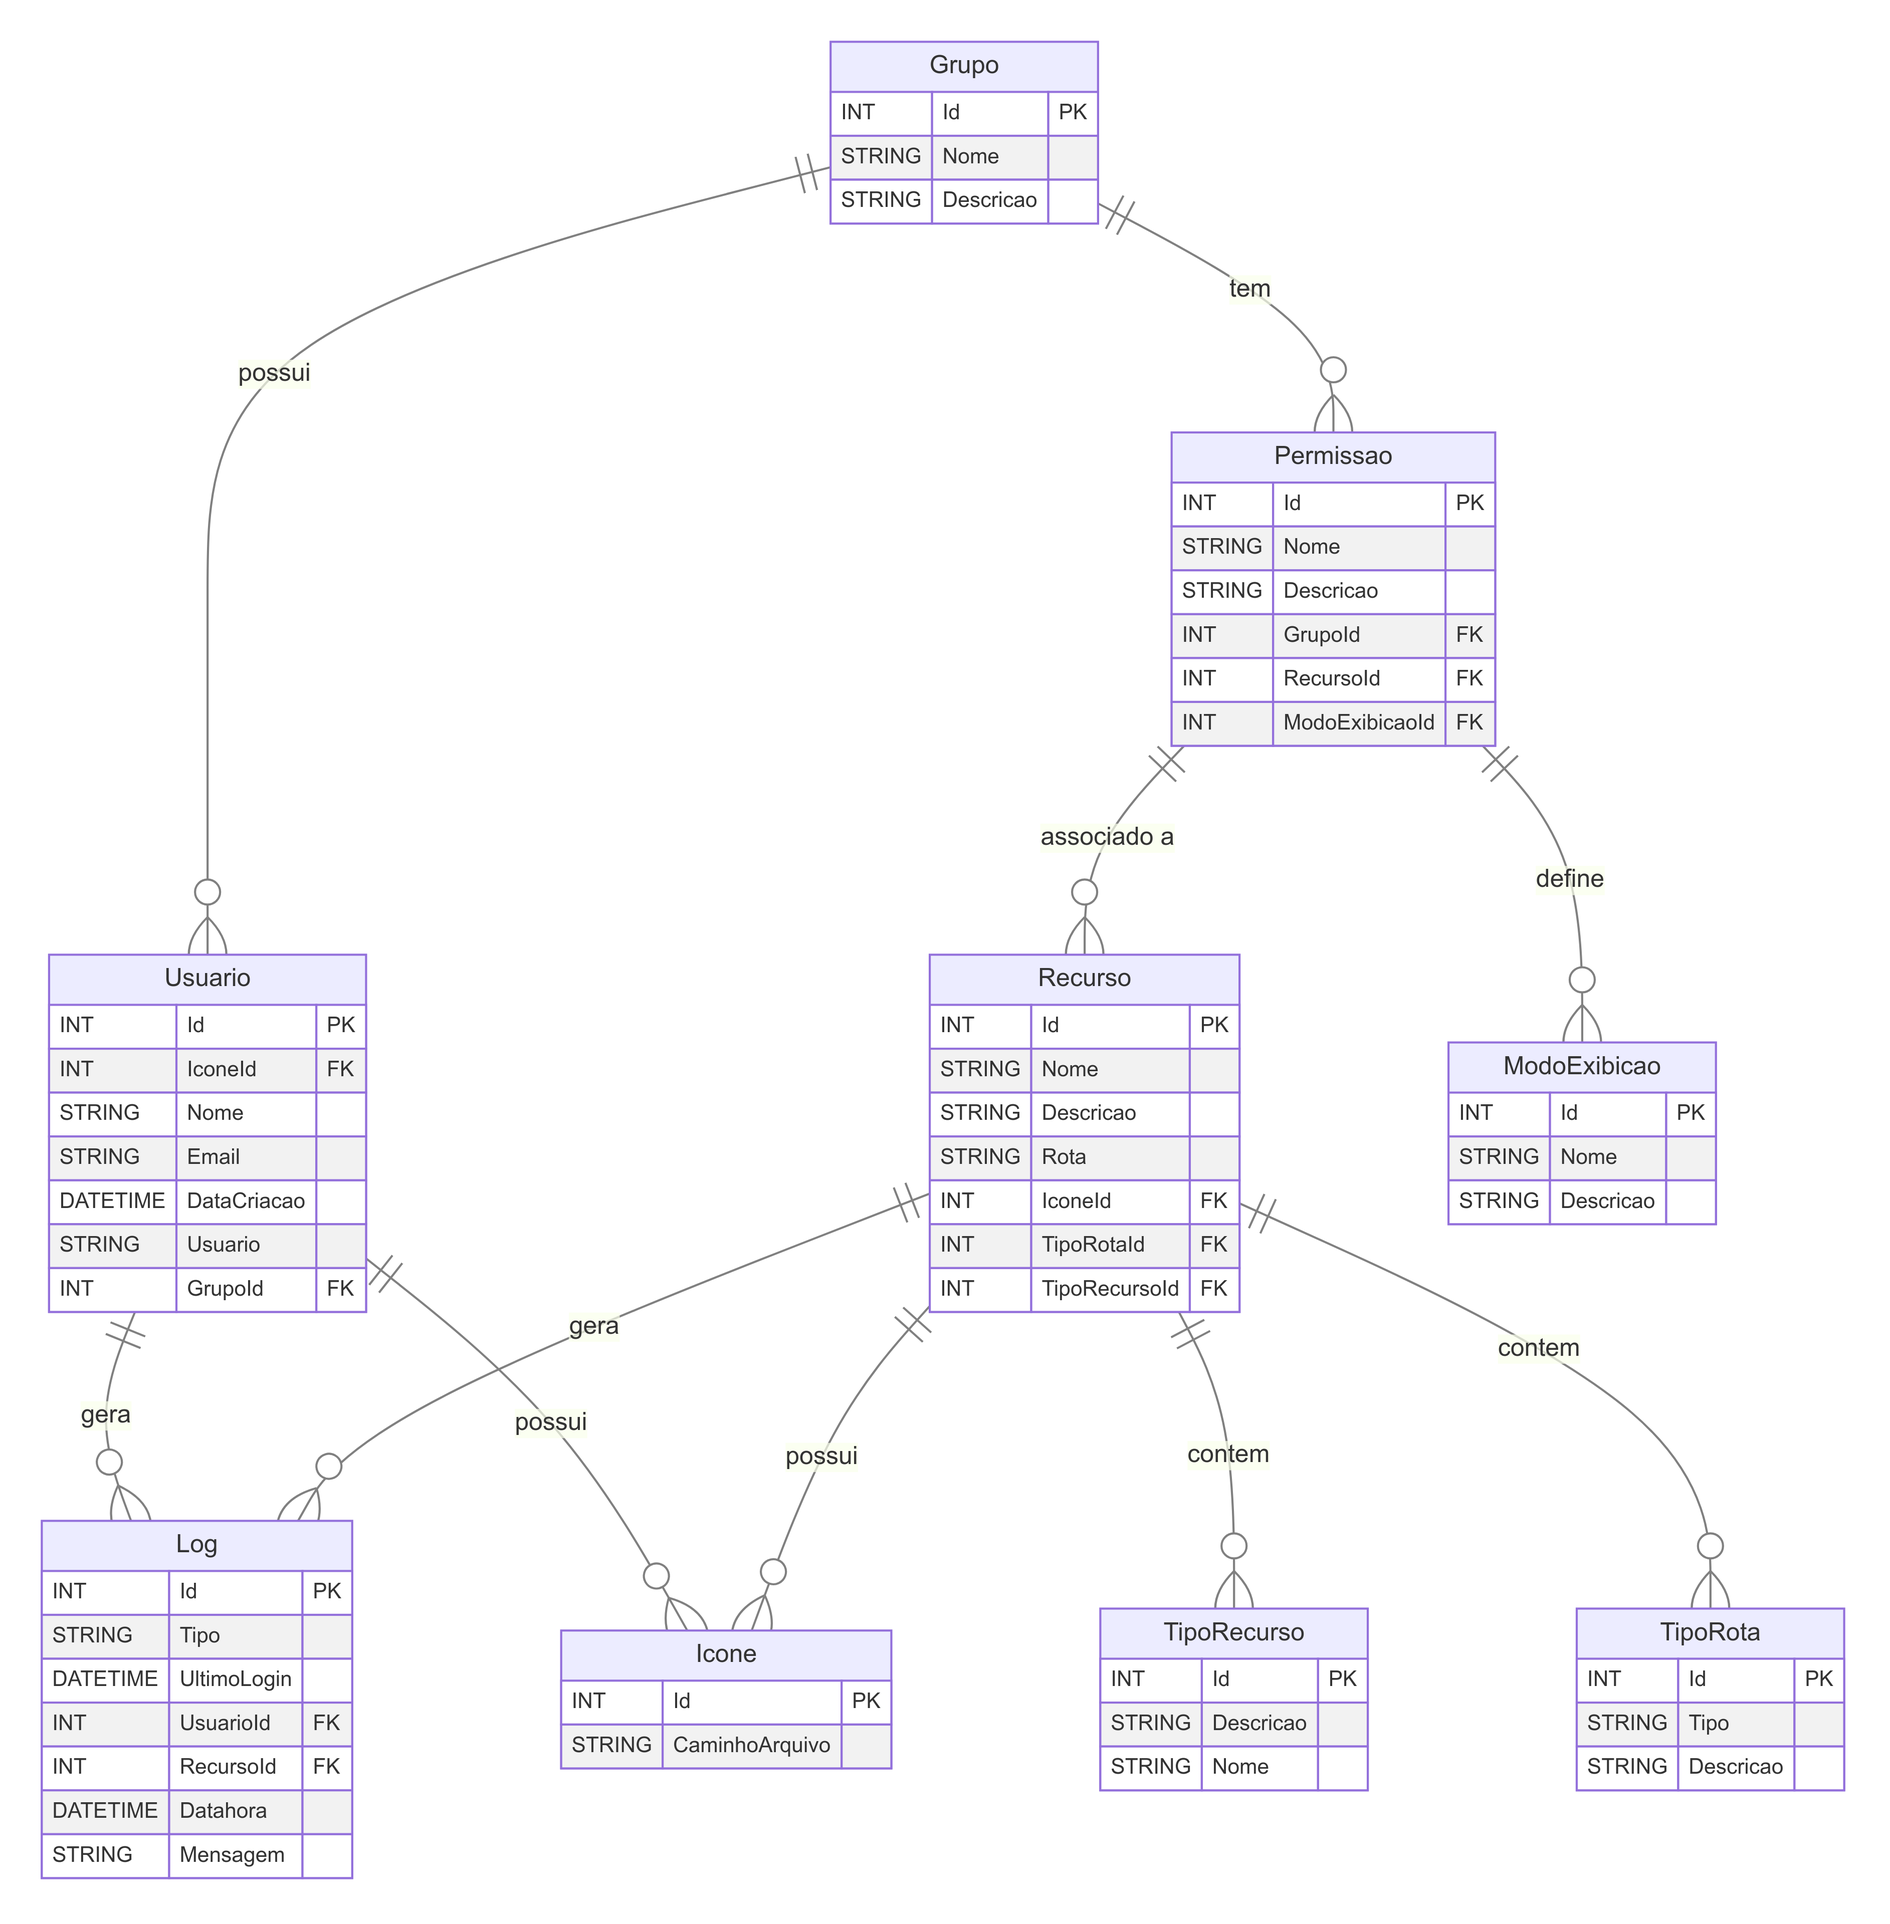
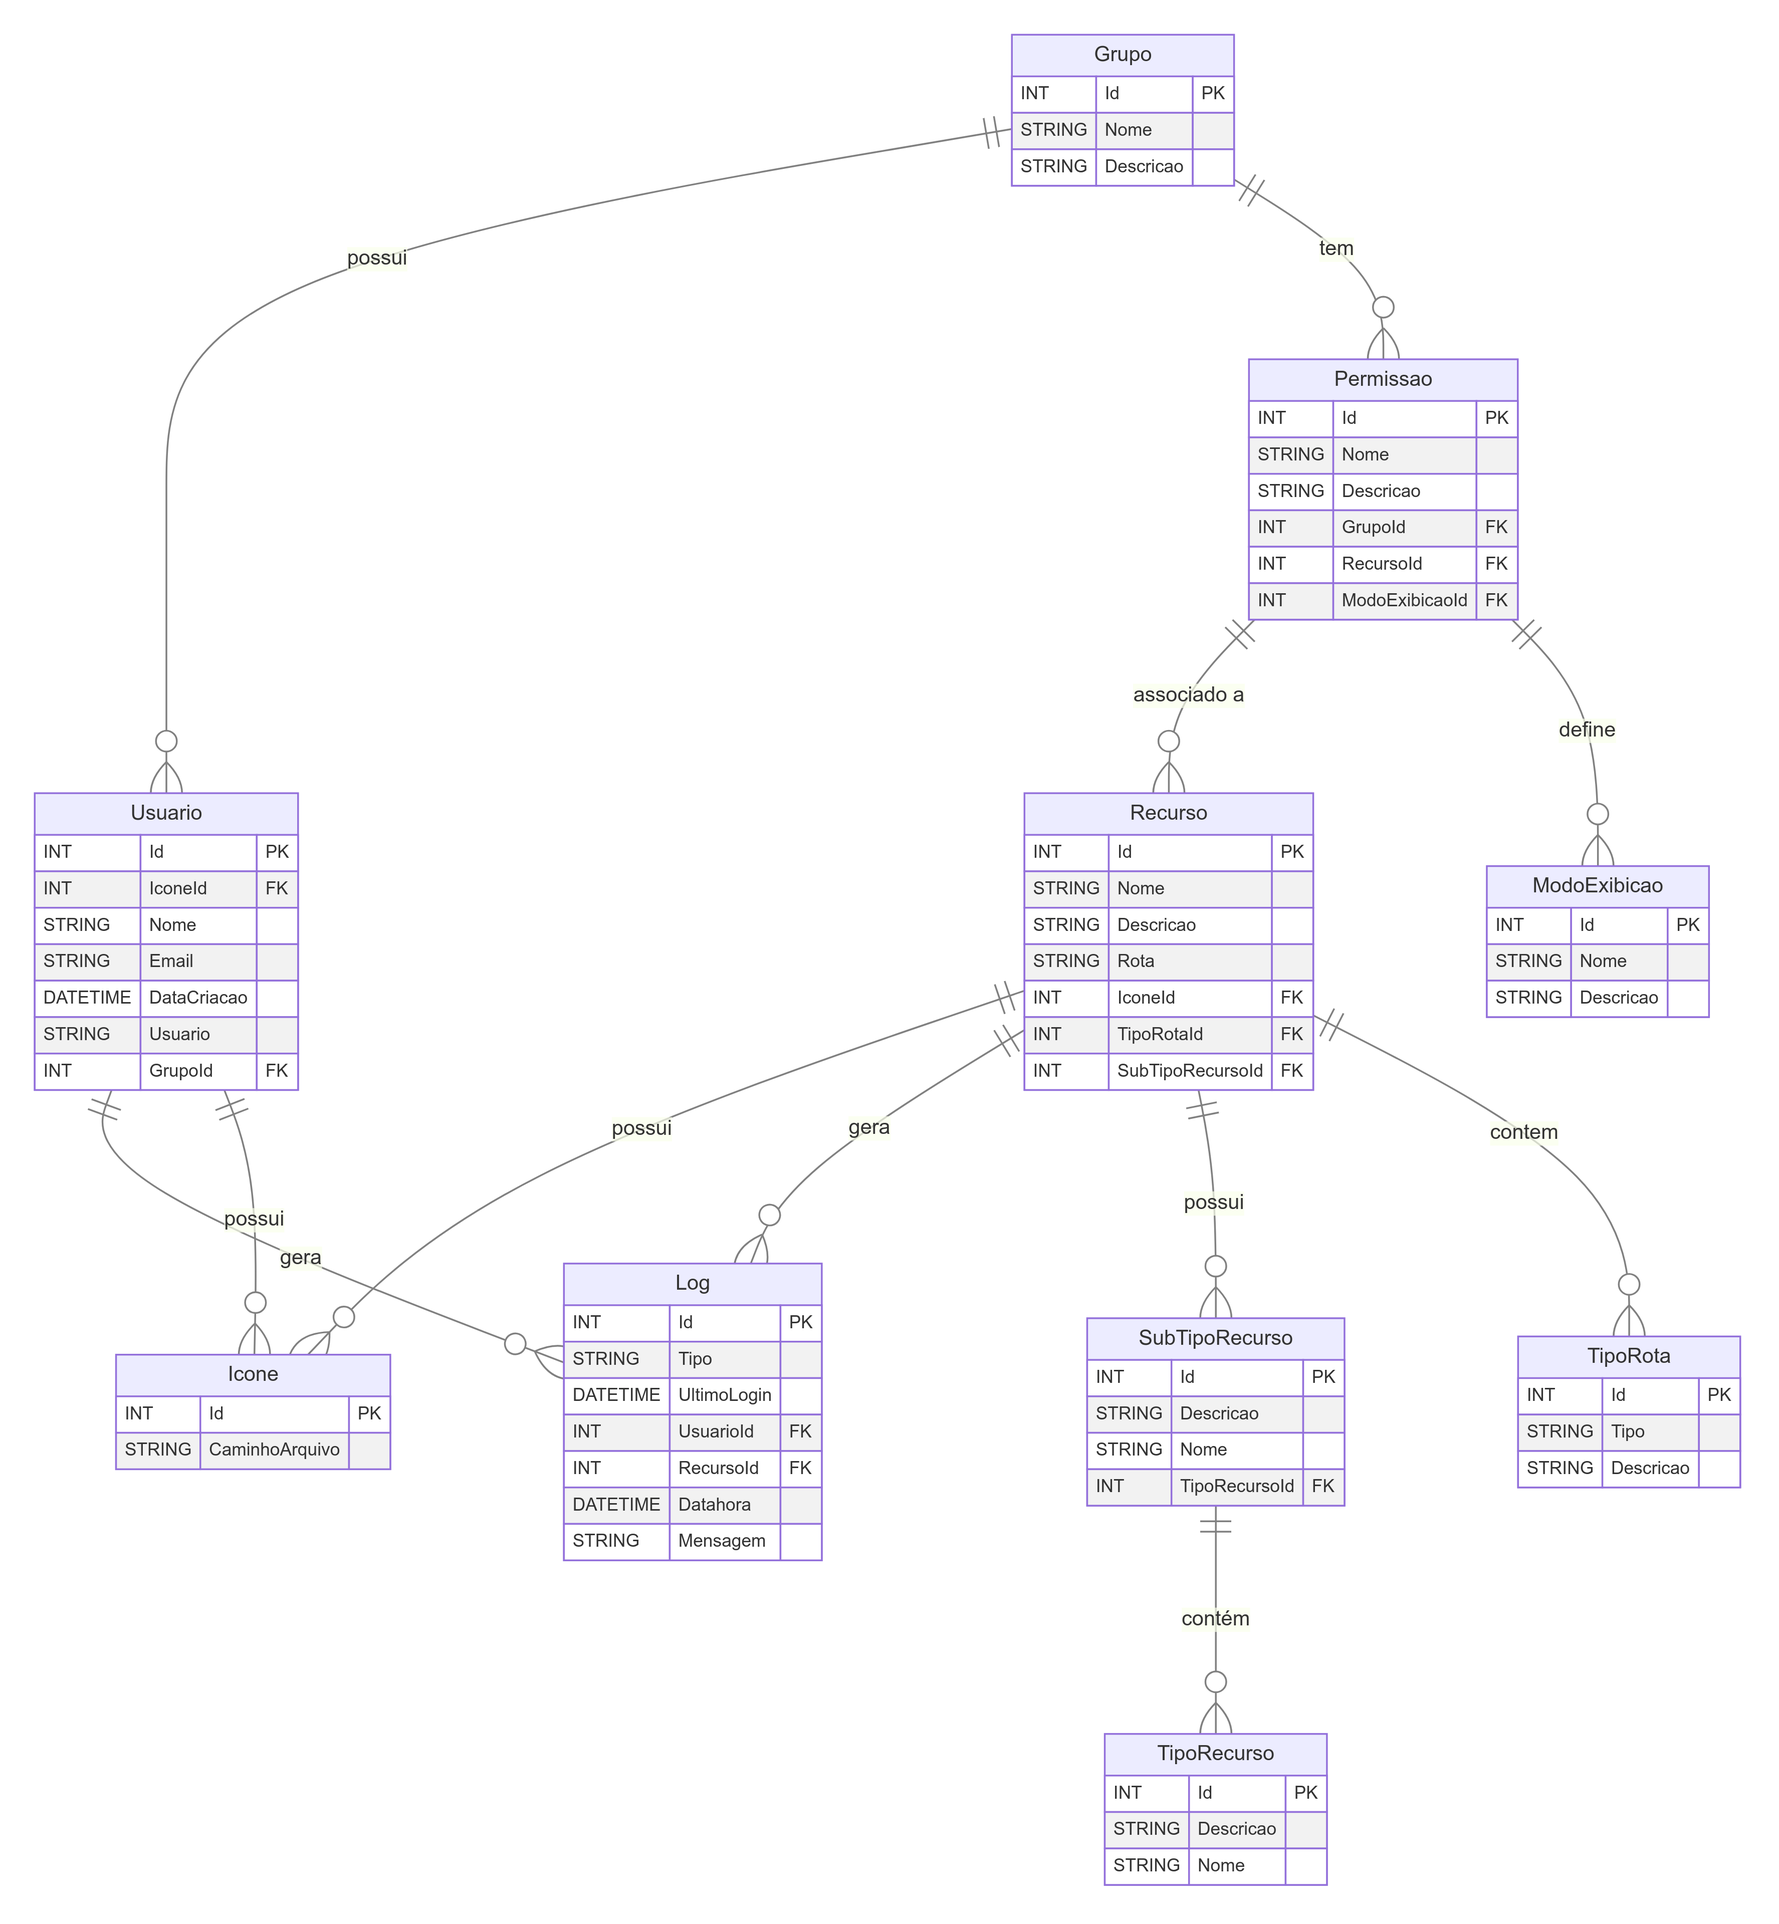
Atualizando a documentação do banco

diff --git a/README.md b/README.md
@@ -33,14 +33,20 @@
    - **Rota**: Caminho do recurso na rede.
    - **TipoRotaId**: Chave estrangeira para a tabela `Tipo Rota`
    - **IconeId**: Chave estrangeira para a tabela `Icone`.
+   - **SubTipoRecursoId**: Chave estrangeira para a tabela `SubTipoRecurso`.
+
+5. **SubTipoRecurso**
+   - **Id**: Identificador único.
+   - **Nome**: Nome do tipo de recurso.
+   - **Descricao**: Descrição do tipo de recurso.
    - **TipoRecursoId**: Chave estrangeira para a tabela `TipoRecurso`.
 
-5. **TipoRecurso**
+6. **TipoRecurso**
    - **Id**: Identificador único.
    - **Descricao**: Descrição do tipo de recurso.
    - **Nome**: Nome do tipo de recurso.
 
-6. **Log**
+7. **Log**
    - **Id**: Identificador único.
    - **Tipo**: Tipo do log.
    - **UltimoLogin**: Data e hora do último login.
@@ -49,7 +55,7 @@
    - **Datahora**: Data e hora do log.
    - **Mensagem**: Mensagem do log.
 
-7. **Permissao**
+8. **Permissao**
    - **Id**: Identificador único.
    - **Nome**: Nome da permissão. Pode representar um tipo ou nome descritivo.
    - **Descricao**: Descrição da permissão.
@@ -57,12 +63,12 @@
    - **RecursoId**: Chave estrangeira para a tabela `Recurso`.
    - **ModoExibicaoId**: Chave estrangeira para a tabela `ModoExibicao`.
 
-8. **ModoExibicao**
+9. **ModoExibicao**
    - **Id**: Identificador único.
    - **Nome**: Nome da exibição.
    - **Descricao**: descrição da exibição.
 
-9. **TipoRota**
+10. **TipoRota**
    - **Id**: Identificador único.
    - **Tipo**: Nome do tipo da rota
    - **Descricao**: Descrição da rota.
@@ -99,6 +105,12 @@
 - **Rota**: STRING
 - **TipoRotaId**: INT (Chave estrangeira para `TipoRota.Id`)
 - **IconeId**: INT (Chave estrangeira para `Icone.Id`)
+- **SubTipoRecursoId**: INT (Chave estrangeira para `SubTipoRecurso.Id`)
+
+#### SubTipoRecurso
+- **Id**: INT (Chave primária)
+- **Descricao**: STRING
+- **Nome**: STRING
 - **TipoRecursoId**: INT (Chave estrangeira para `TipoRecurso.Id`)
 
 #### TipoRecurso
@@ -175,17 +187,24 @@
      - **Recurso (1, N) — (0, N) Log**: Um recurso pode gerar zero ou mais logs.
      - **Log (1, 1) — (1, 1) Recurso**: Cada log está associado a um único recurso.
 
-7. **Recurso e TipoRecurso**
-   - **Descrição**: Um recurso é classificado por um tipo específico de recurso. Cada tipo de recurso pode ser associado a vários recursos.
-   - **Cardinalidade**: Um para muitos (1).
-     - **TipoRecurso (1, N) — (0, N) Recurso**: Um tipo de recurso pode estar associado a zero ou mais recursos.
-     - **Recurso (1, 1) — (1, 1) TipoRecurso**: Cada recurso está associado a um único tipo de recurso.
-
-8. **Recurso e TipoRota**
+7. **Recurso e TipoRota**
    - **Descrição**: Um recurso é possui uma rota para o executável da aplicação ecada rota possui um tipo de rota. Cada tipo de rota pode ser associado a vários recursos.
    - **Cardinalidade**: Um para muitos (1).
      - **TipoRota (1, N) — (0, N) Recurso**: Um tipo de rota pode estar associado a zero ou mais recursos.
      - **Recurso (1, 1) — (1, 1) TipoRota**: Cada recurso está associado a um único tipo de rota.
+
+8. **Recurso e SubTipoRecurso**
+   - **Descrição**: Pertence a um sub tipo de recurso, que por sua vez, está associado a um tipo de recurso.
+   - **Cardinalidade**: Um para muitos (1).
+   - **SubTipoRecurso (1, N) — (0, N) Recurso**: Um sub tipo de recurso pode estar associado a zero ou mais recursos.
+   - **Recurso (1, 1) — (1, 1) SubTipoRecurso**: Cada recurso está associado a um único sub tipo de recurso.
+
+9. **SubTipoRecurso e TipoRecurso**
+   - **Descrição**: Uma subcategoria específica dentro de um tipo de recurso, que agrupa os `Recursos`.Enquanto `TipoRecurso` categoriza os `SubTipoRecurso`. 
+   - **Cardinalidade**: Um para muitos (1).
+   - **TipoRecurso (1, N) — (0, N) SubTipoRecurso**: Um tipo de recurso pode estar associado a zero ou mais sub tipos de recursos.
+   - **SubTipoRecurso (1, 1) — (1, 1) TipoRecurso**: Cada sub tipo de recurso está associado a um único tipo de recurso.
+
 </details>
 
 <details>
@@ -227,8 +246,15 @@ erDiagram
         STRING Rota
         INT IconeId FK
         INT TipoRotaId FK
-        INT TipoRecursoId FK
+        INT SubTipoRecursoId FK
     }
+
+   SubTipoRecurso {
+        INT Id PK
+        STRING Descricao
+        STRING Nome
+        INT TipoRecursoId FK
+   }
 
      TipoRecurso {
         INT Id PK
@@ -276,8 +302,9 @@ erDiagram
     Usuario ||--o{ Icone : "possui"
     Recurso ||--o{ Icone : "possui"
     Recurso ||--o{ Log : "gera"
-    Recurso ||--o{ TipoRecurso : "contem"
+    Recurso ||--o{ SubTipoRecurso : "possui"
     Recurso ||--o{ TipoRota : "contem"
+    SubTipoRecurso ||--o{ TipoRecurso : "contém"
 ```
 </details>
 
@@ -314,10 +341,6 @@ erDiagram
 - A aplicação "Sistema de Finanças" pode ter permissões associadas como "Visualizar Relatórios" e "Editar Dados".
 - O perfil "Perfil Completo" pode ter acesso a todas as permissões da aplicação "Sistema de Finanças", enquanto o perfil "Perfil Básico" pode ter acesso apenas à visualização de relatórios.
 
-Entendi, vamos revisar o texto conforme suas mudanças. A tabela `ModoExibicao` terá quatro tipos, e a `Permissao` terá uma chave estrangeira com o ID dessas exibições. Pode haver várias permissões para uma exibição. Aqui está a revisão:
-
-Entendi, você quer ter múltiplas permissões em um modo de exibição. Aqui está o texto revisado para refletir essa estrutura:
-
 ### 4. **Permissão e ModoExibição**
 
 - **Relacionamento:** Uma exibição pode ter várias permissões associadas, e cada permissão está vinculada a um único modo de exibição.
@@ -342,6 +365,23 @@ Entendi, você quer ter múltiplas permissões em um modo de exibição. Aqui es
 
 **Exemplo:**
 - A aplicação "Sistema de Finanças" pode gerar logs de eventos como erros ou acessos, que ajudam a monitorar o uso e detectar falhas.
+
+### 7. **Recursos, TipoRecurso e SubTipoRecurso**
+**Exemplo:**
+- TipoRecurso:
+  - 1, "Internet", "Recursos relacionados a serviços de internet"
+  - 2, "Software", "Aplicações e ferramentas de software"
+
+- SubTipoRecurso:
+  - 1, "TI", "Recursos de TI", 1 (Relacionado ao TipoRecurso "Internet")
+  - 2, "Serviços", "Serviços web", 1 (Relacionado ao TipoRecurso "Internet")
+  - 3, "Gestão", "Ferramentas de gestão", 2 (Relacionado ao TipoRecurso "Software")
+
+- Recurso:
+  - 1, "GLPI", "Sistema de gestão de TI", 1 (Relacionado ao SubTipoRecurso "TI")
+  - 2, "Jira", "Sistema de acompanhamento de projetos", 1 (Relacionado ao SubTipoRecurso "TI")
+  - 3, "Webmail", "Serviço de email corporativo", 2 (Relacionado ao SubTipoRecurso "Serviços")
+
 
 </details>
 
@@ -407,3 +447,6 @@ sequenceDiagram
 ```
 
 </details>
+
+
+
